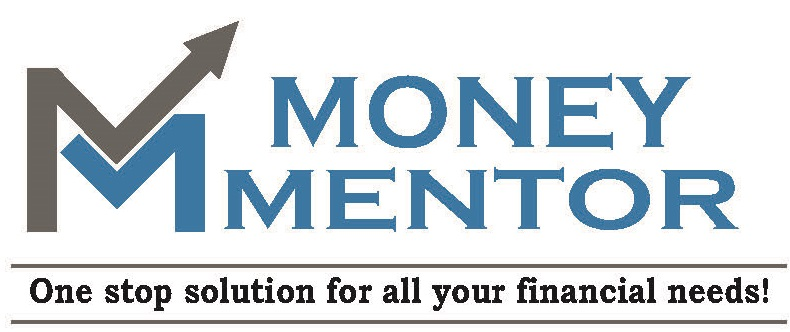
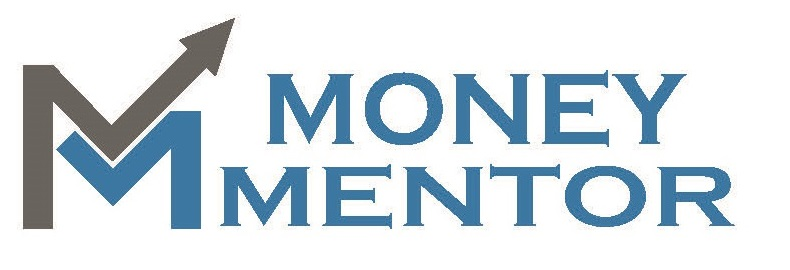
UI changes with the team

diff --git a/src/logged_out/components/home/AboutUsSection.js b/src/logged_out/components/home/AboutUsSection.js
@@ -32,9 +32,8 @@ class AboutUsSection extends Component {
       <>
         <Toolbar id="back-to-about-us" />
         <div style={{ backgroundColor: "#FFFFFF" }}>
-          <div className="container-fluid sm-p-top">
-            <Toolbar id="back-to-services" />
-            <Typography variant="h3" align="center" className="lg-mg-bottom">
+          <div className="container-fluid" id="back-to-services">
+            <Typography variant="h3" align="center" className="mb-3">
               Team MMFS
             </Typography>
             <div className="container-fluid">
@@ -44,6 +43,8 @@ class AboutUsSection extends Component {
                     color: "#00C853",
                     headline: "Dhaval Thakkar",
                     photo: toAbsoluteUrl("images/about_us/Dhaval_Thakkar.jpg"),
+                    extra:
+                      "Founding Partner at Money Mentor Financial Services LLP, Having 4.5+ years of experience in Credit Rating Agency in the Business Development team and also worked as a Relationship Manager in one of the leading Private Sector Bank in Working Capital Vertical.",
                     text: "Partner",
                     mdDelay: "0",
                     smDelay: "0",
@@ -53,6 +54,8 @@ class AboutUsSection extends Component {
                     headline: "Rohit Thakker",
                     photo: toAbsoluteUrl("images/about_us/Rohit_Thakker.jpg"),
                     text: "Partner",
+                    extra:
+                      "Founding Partner at Money Mentor Financial Services LLP. Having 6+ years of experience in the areas of Accounting, GST, Income Tax, Auditing & Finance in various industries such as Logistics, Warehousing, Laboratory & Steel.",
                     mdDelay: "0",
                     smDelay: "0",
                   },
@@ -63,6 +66,8 @@ class AboutUsSection extends Component {
                       "images/about_us/Parthkumar_Thakker.jpg"
                     ),
                     text: "Partner",
+                    extra:
+                      "Founding Partner at Money Mentor Financial Services LLP. Having over 4.5 years of experience in the area of Credit Rating and has rated over 60,000 crores of debt. He is a management graduate and has passed CFA level 2 exam.",
                     mdDelay: "0",
                     smDelay: "0",
                   },
@@ -103,6 +108,14 @@ class AboutUsSection extends Component {
                           className={"d-flex flex-row"}
                         >
                           {element.text}
+                        </Typography>
+                        <Typography
+                          variant="subtitle2"
+                          color="textSecondary"
+                          style={{ textAlign: "justify" }}
+                          className={"d-flex flex-row mr-3"}
+                        >
+                          {element.extra}
                         </Typography>
                       </Fragment>
                     </Grid>

diff --git a/src/logged_out/components/home/FeatureSection.js b/src/logged_out/components/home/FeatureSection.js
@@ -9,7 +9,6 @@ import {
   withWidth,
 } from "@material-ui/core";
 import CalendarTodayIcon from "@material-ui/icons/CalendarToday";
-import calculateSpacing from "./calculateSpacing";
 import FeatureCard from "./FeatureCard";
 import WaveBorder from "../../../shared/components/WaveBorder";
 
@@ -17,7 +16,8 @@ const iconSize = 30;
 
 const styles = (theme) => ({
   waveBorder: {
-    paddingTop: theme.spacing(4),
+    marginTop: theme.spacing(4),
+    paddingTop: theme.spacing(6),
   },
 });
 
@@ -34,7 +34,8 @@ const features = [
   {
     color: "#6200EA",
     headline: "Debt Syndication",
-    text: "",
+    text:
+      "MMFS acts as an advisor for arranging funds through various types of debt instruments and assists customers in strengthening their balance sheets by delivering capital structure alternatives designed for maximum profits. We at MMFS, build a strong long term relationship with customers by providing them timely and tailored solutions to fulfil their financial goals. MMFS has developed an extensive network of Financial Institutions and banks and built strong relationships with them which enable us to provide customized solutions to the customer requirement. To fulfil all the liquidity needs of the clients, we provide innovative solutions for both fund and non-fund based requirements creating tangible value for the customers. We assist our customers throughout the transaction process from initial strategy formulation to implementation.",
     icon: <CalendarTodayIcon style={{ fontSize: iconSize }} />,
     mdDelay: "200",
     smDelay: "200",
@@ -109,13 +110,13 @@ function FeatureSection(props) {
   return (
     <>
       <div style={{ backgroundColor: "#FFFFFF" }}>
-        <div className="container-fluid lg-p-top">
+        <div className="container-fluid">
           <Toolbar id="back-to-services" />
-          <Typography variant="h3" align="center" className="lg-mg-bottom">
+          <Typography variant="h3" align="center" className="mb-3">
             Services
           </Typography>
           <div className="container-fluid">
-            <Grid container spacing={calculateSpacing(width)}>
+            <Grid container spacing={2}>
               {features.map((element) => (
                 <Grid
                   item

diff --git a/src/logged_out/components/navigation/NavBar.js b/src/logged_out/components/navigation/NavBar.js
@@ -15,11 +15,13 @@ import HomeIcon from "@material-ui/icons/Home";
 import NavigationDrawer from "../../../shared/components/NavigationDrawer";
 import {
   scrollToAboutUs,
+  scrollToContactUs,
   scrollToHome,
   scrollToServices,
   toAbsoluteUrl,
 } from "../../../app/utils/UtilMethods";
 import PeopleAltIcon from "@material-ui/icons/PeopleAlt";
+import CallIcon from "@material-ui/icons/Call";
 
 const styles = (theme) => ({
   appBar: {
@@ -77,6 +79,13 @@ function NavBar(props) {
         scrollToAboutUs();
       },
     },
+    {
+      name: "Contact Us",
+      icon: <CallIcon className="text-white" />,
+      onClick: () => {
+        scrollToContactUs();
+      },
+    },
 
     // { link: "/home", name: "About Us" },
     // { link: "/home", name: "Services" },
@@ -95,7 +104,7 @@ function NavBar(props) {
             <img
               src={toAbsoluteUrl("/images/Money_Mentor_Small.jpg")}
               alt={"Money Mentor Fs Logo"}
-              style={{ height: "75px", width: "120px" }}
+              style={{ height: "75px", width: "210px" }}
             />
           )}
           {!isImage && (
@@ -141,7 +150,10 @@ function NavBar(props) {
                       <Button
                         color="secondary"
                         size="large"
-                        classes={{ text: classes.menuButtonText }}
+                        classes={{
+                          text: classes.menuButtonText,
+                        }}
+                        style={{ color: "#3b77a1" }}
                         onClick={() => {
                           element?.onClick();
                         }}
@@ -157,6 +169,7 @@ function NavBar(props) {
                     size="large"
                     onClick={element.onClick}
                     classes={{ text: classes.menuButtonText }}
+                    style={{ color: "#3b77a1" }}
                     key={element.name}
                   >
                     {element.name}

diff --git a/src/logged_out/components/home/HeadSection.js b/src/logged_out/components/home/HeadSection.js
@@ -38,8 +38,8 @@ const styles = (theme) => ({
     marginLeft: theme.spacing(2),
     marginRight: theme.spacing(2),
     [theme.breakpoints.up("xs")]: {
-      paddingTop: theme.spacing(3),
-      paddingBottom: theme.spacing(3),
+      paddingTop: theme.spacing(2),
+      paddingBottom: theme.spacing(2),
     },
     [theme.breakpoints.up("sm")]: {
       paddingTop: theme.spacing(5),
@@ -67,7 +67,7 @@ const styles = (theme) => ({
     position: "relative",
     // backgroundColor: "#91afdc",
     backgroundColor: "#3b77a1",
-    paddingBottom: theme.spacing(2),
+    paddingBottom: theme.spacing(0.5),
   },
   image: {
     maxWidth: "100%",
@@ -76,16 +76,16 @@ const styles = (theme) => ({
     boxShadow: theme.shadows[4],
   },
   container: {
-    marginTop: theme.spacing(6),
-    marginBottom: theme.spacing(12),
+    marginTop: theme.spacing(3),
+    marginBottom: theme.spacing(6),
     [theme.breakpoints.down("md")]: {
-      marginBottom: theme.spacing(9),
-    },
-    [theme.breakpoints.down("sm")]: {
-      marginBottom: theme.spacing(6),
+      marginBottom: theme.spacing(4),
     },
     [theme.breakpoints.down("sm")]: {
       marginBottom: theme.spacing(3),
+    },
+    [theme.breakpoints.down("sm")]: {
+      marginBottom: theme.spacing(1.5),
     },
   },
   containerFix: {

diff --git a/src/logged_out/components/home/FeatureCard.js b/src/logged_out/components/home/FeatureCard.js
@@ -1,8 +1,8 @@
-import React, { Fragment } from "react";
+import React, {Fragment} from "react";
 import PropTypes from "prop-types";
-import { Typography, withStyles } from "@material-ui/core";
+import {Typography, withStyles} from "@material-ui/core";
 
-import { Accordion, Button } from "react-bootstrap";
+import {Accordion, Button} from "react-bootstrap";
 
 const styles = (theme) => ({
   iconWrapper: {
@@ -42,17 +42,6 @@ function FeatureCard(props) {
   const { classes, Icon, color, headline, text } = props;
   return (
     <Fragment>
-      <div
-        // We will set color and fill here, due to some prios complications
-        className={classes.iconWrapper}
-        style={{
-          color: color,
-          backgroundColor: shadeColor(color, 0.5),
-          fill: color,
-        }}
-      >
-        {/*{Icon}*/}
-      </div>
       <Accordion>
         <Accordion.Toggle variant="link" eventKey="0" as={Button}>
           <Typography variant="h5" paragraph>

diff --git a/src/GlobalStyles.js b/src/GlobalStyles.js
@@ -90,15 +90,15 @@ const styles = (theme) => ({
       },
     },
     ".sm-p-top": {
-      paddingTop: `${theme.spacing(10)}px !important`,
+      paddingTop: `${theme.spacing(5)}px !important`,
       [theme.breakpoints.down("md")]: {
-        paddingTop: `${theme.spacing(9)}px !important`,
+        paddingTop: `${theme.spacing(4)}px !important`,
       },
       [theme.breakpoints.down("sm")]: {
-        paddingTop: `${theme.spacing(8)}px !important`,
+        paddingTop: `${theme.spacing(3)}px !important`,
       },
       [theme.breakpoints.down("xs")]: {
-        paddingTop: `${theme.spacing(7)}px !important`,
+        paddingTop: `${theme.spacing(2)}px !important`,
       },
     },
   },

diff --git a/src/logged_out/components/footer/Footer.js b/src/logged_out/components/footer/Footer.js
@@ -168,7 +168,7 @@ function Footer(props) {
         lowerColor={"#3b77a1"}
         animationNegativeDelay={4}
       />
-      <div className={classes.footerInner}>
+      <div className={classes.footerInner} id={"back-to-contact-us"}>
         <Grid container spacing={isWidthUp("md", width) ? 10 : 5}>
           <Grid item xs={12} md={6} lg={4}>
             <Box display="flex" flexDirection="column">

diff --git a/src/app/utils/UtilMethods.js b/src/app/utils/UtilMethods.js
@@ -6,6 +6,8 @@ export const scrollToServices = () => scrollTo("back-to-services");
 
 export const scrollToAboutUs = () => scrollTo("back-to-about-us");
 
+export const scrollToContactUs = () => scrollTo("back-to-contact-us");
+
 export const scrollTo = (scrollToId = "") => {
   const anchor = document.querySelector(`#${scrollToId}`);
 
